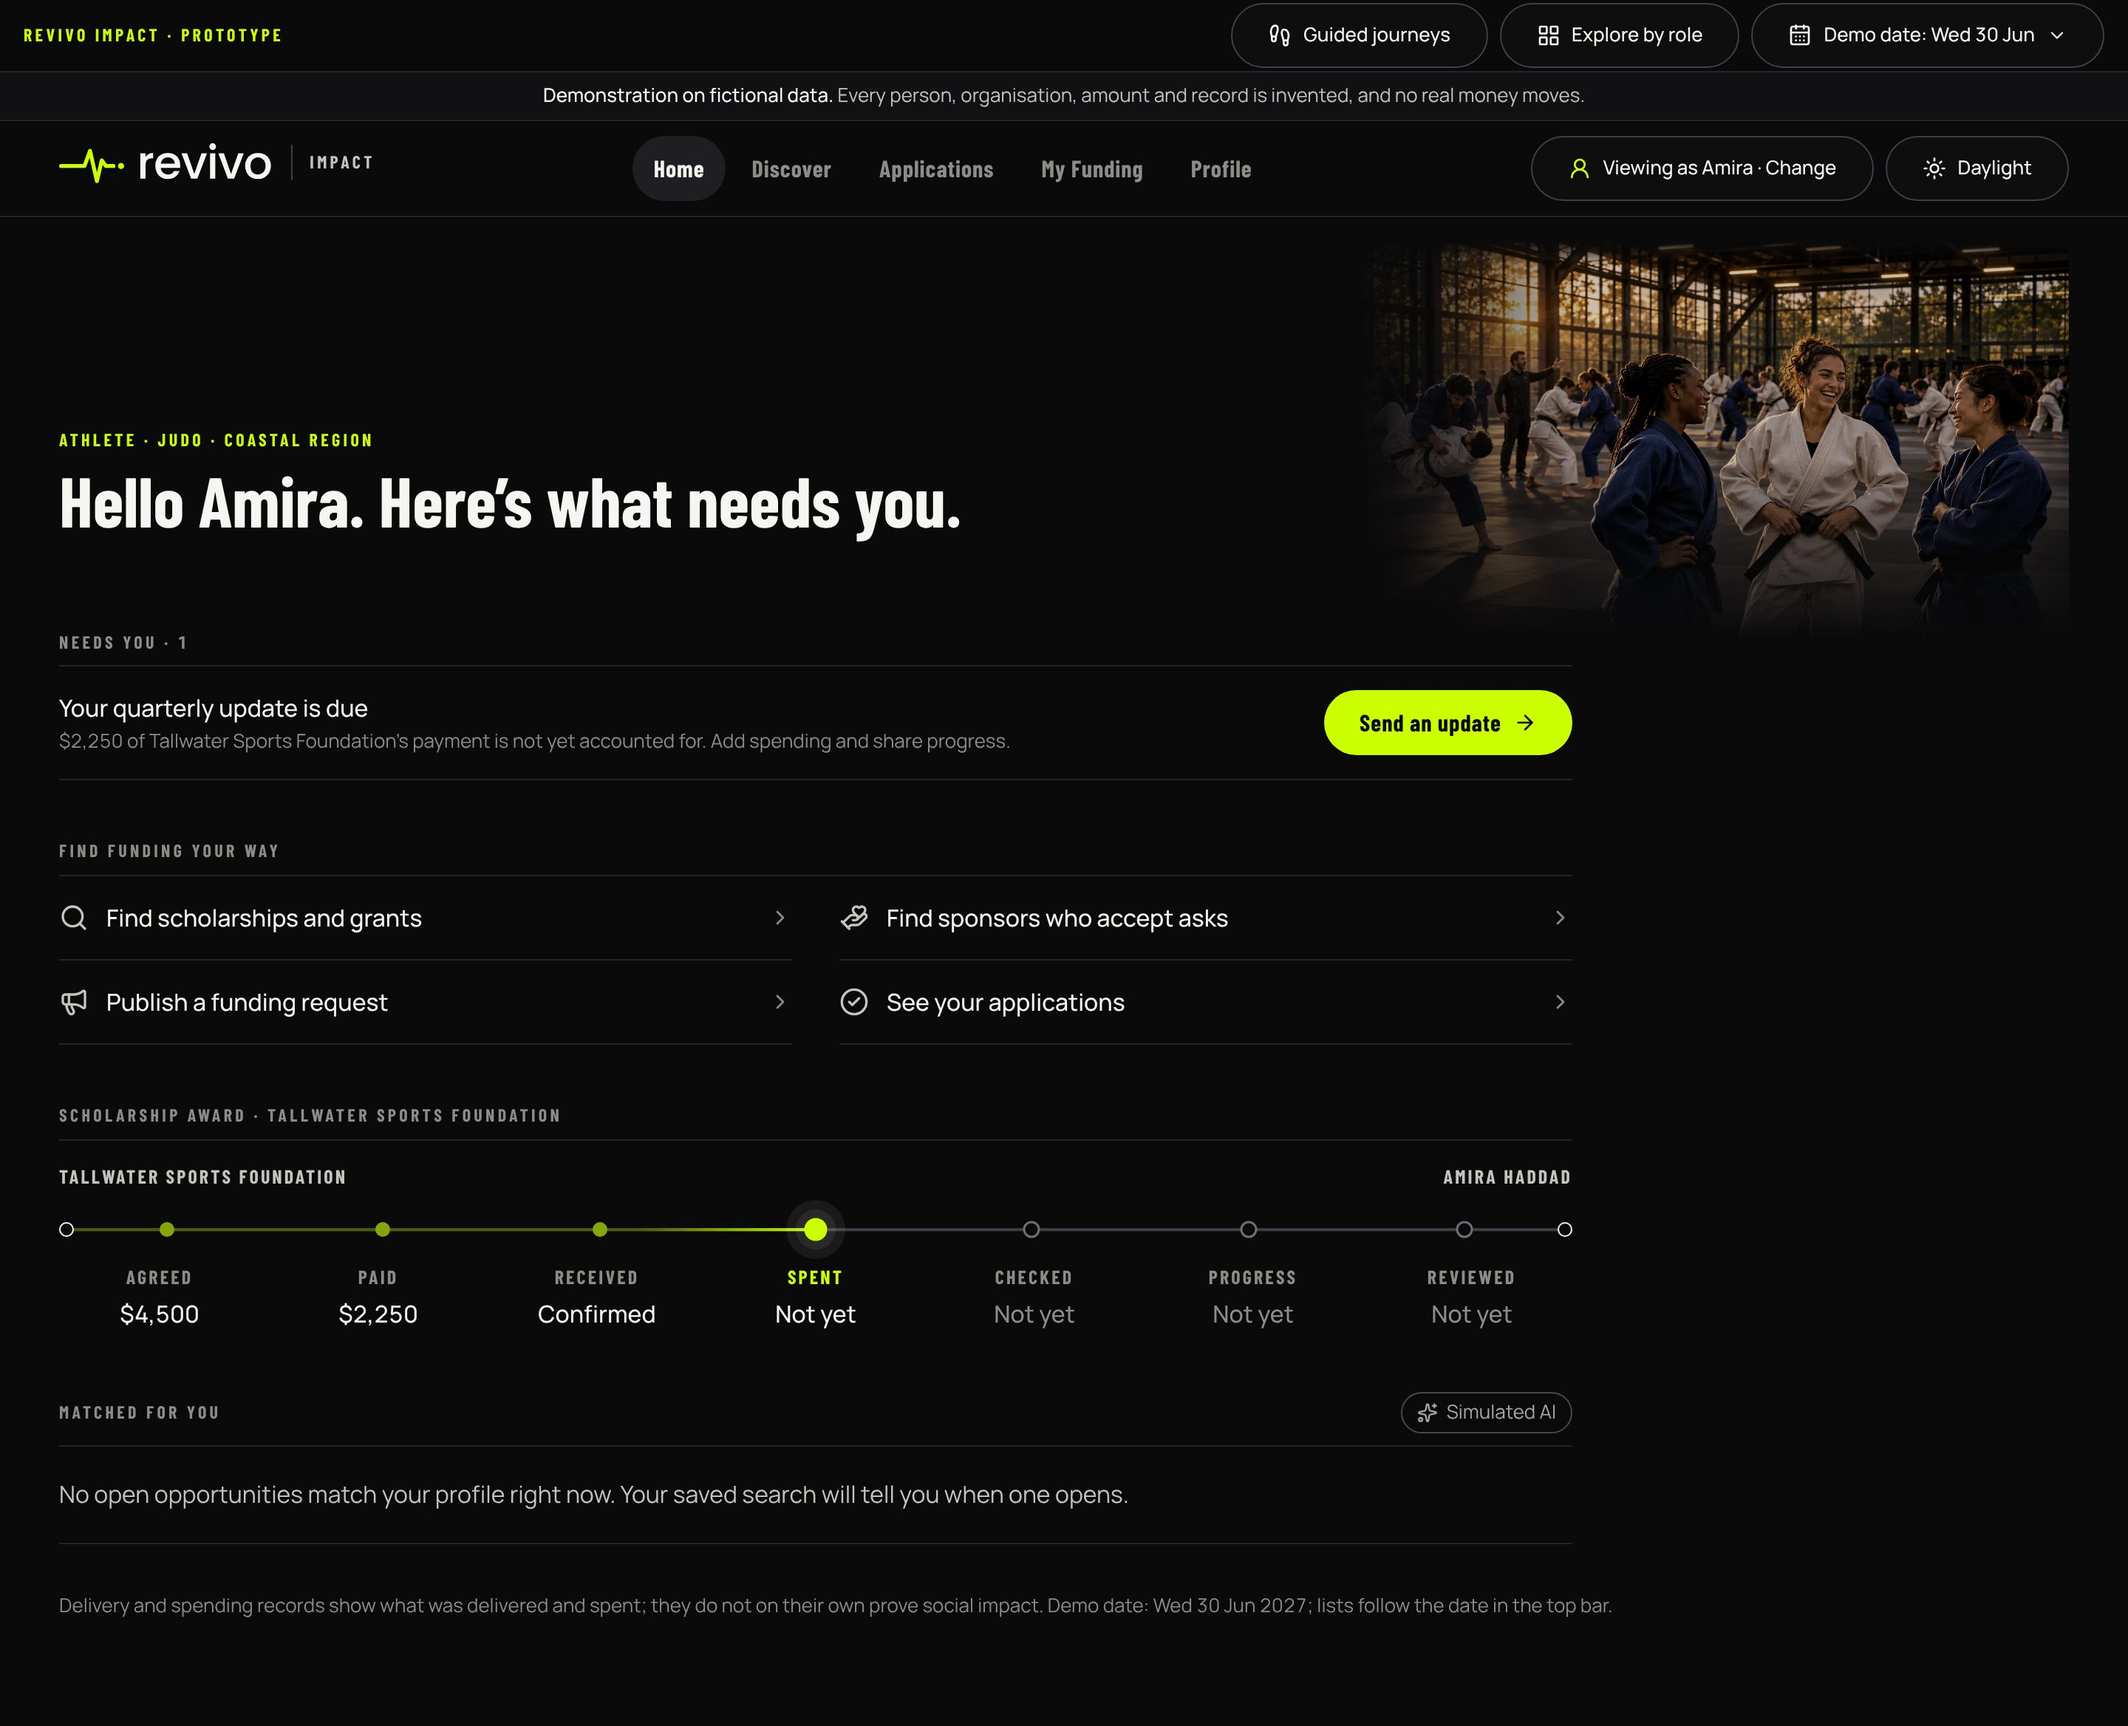
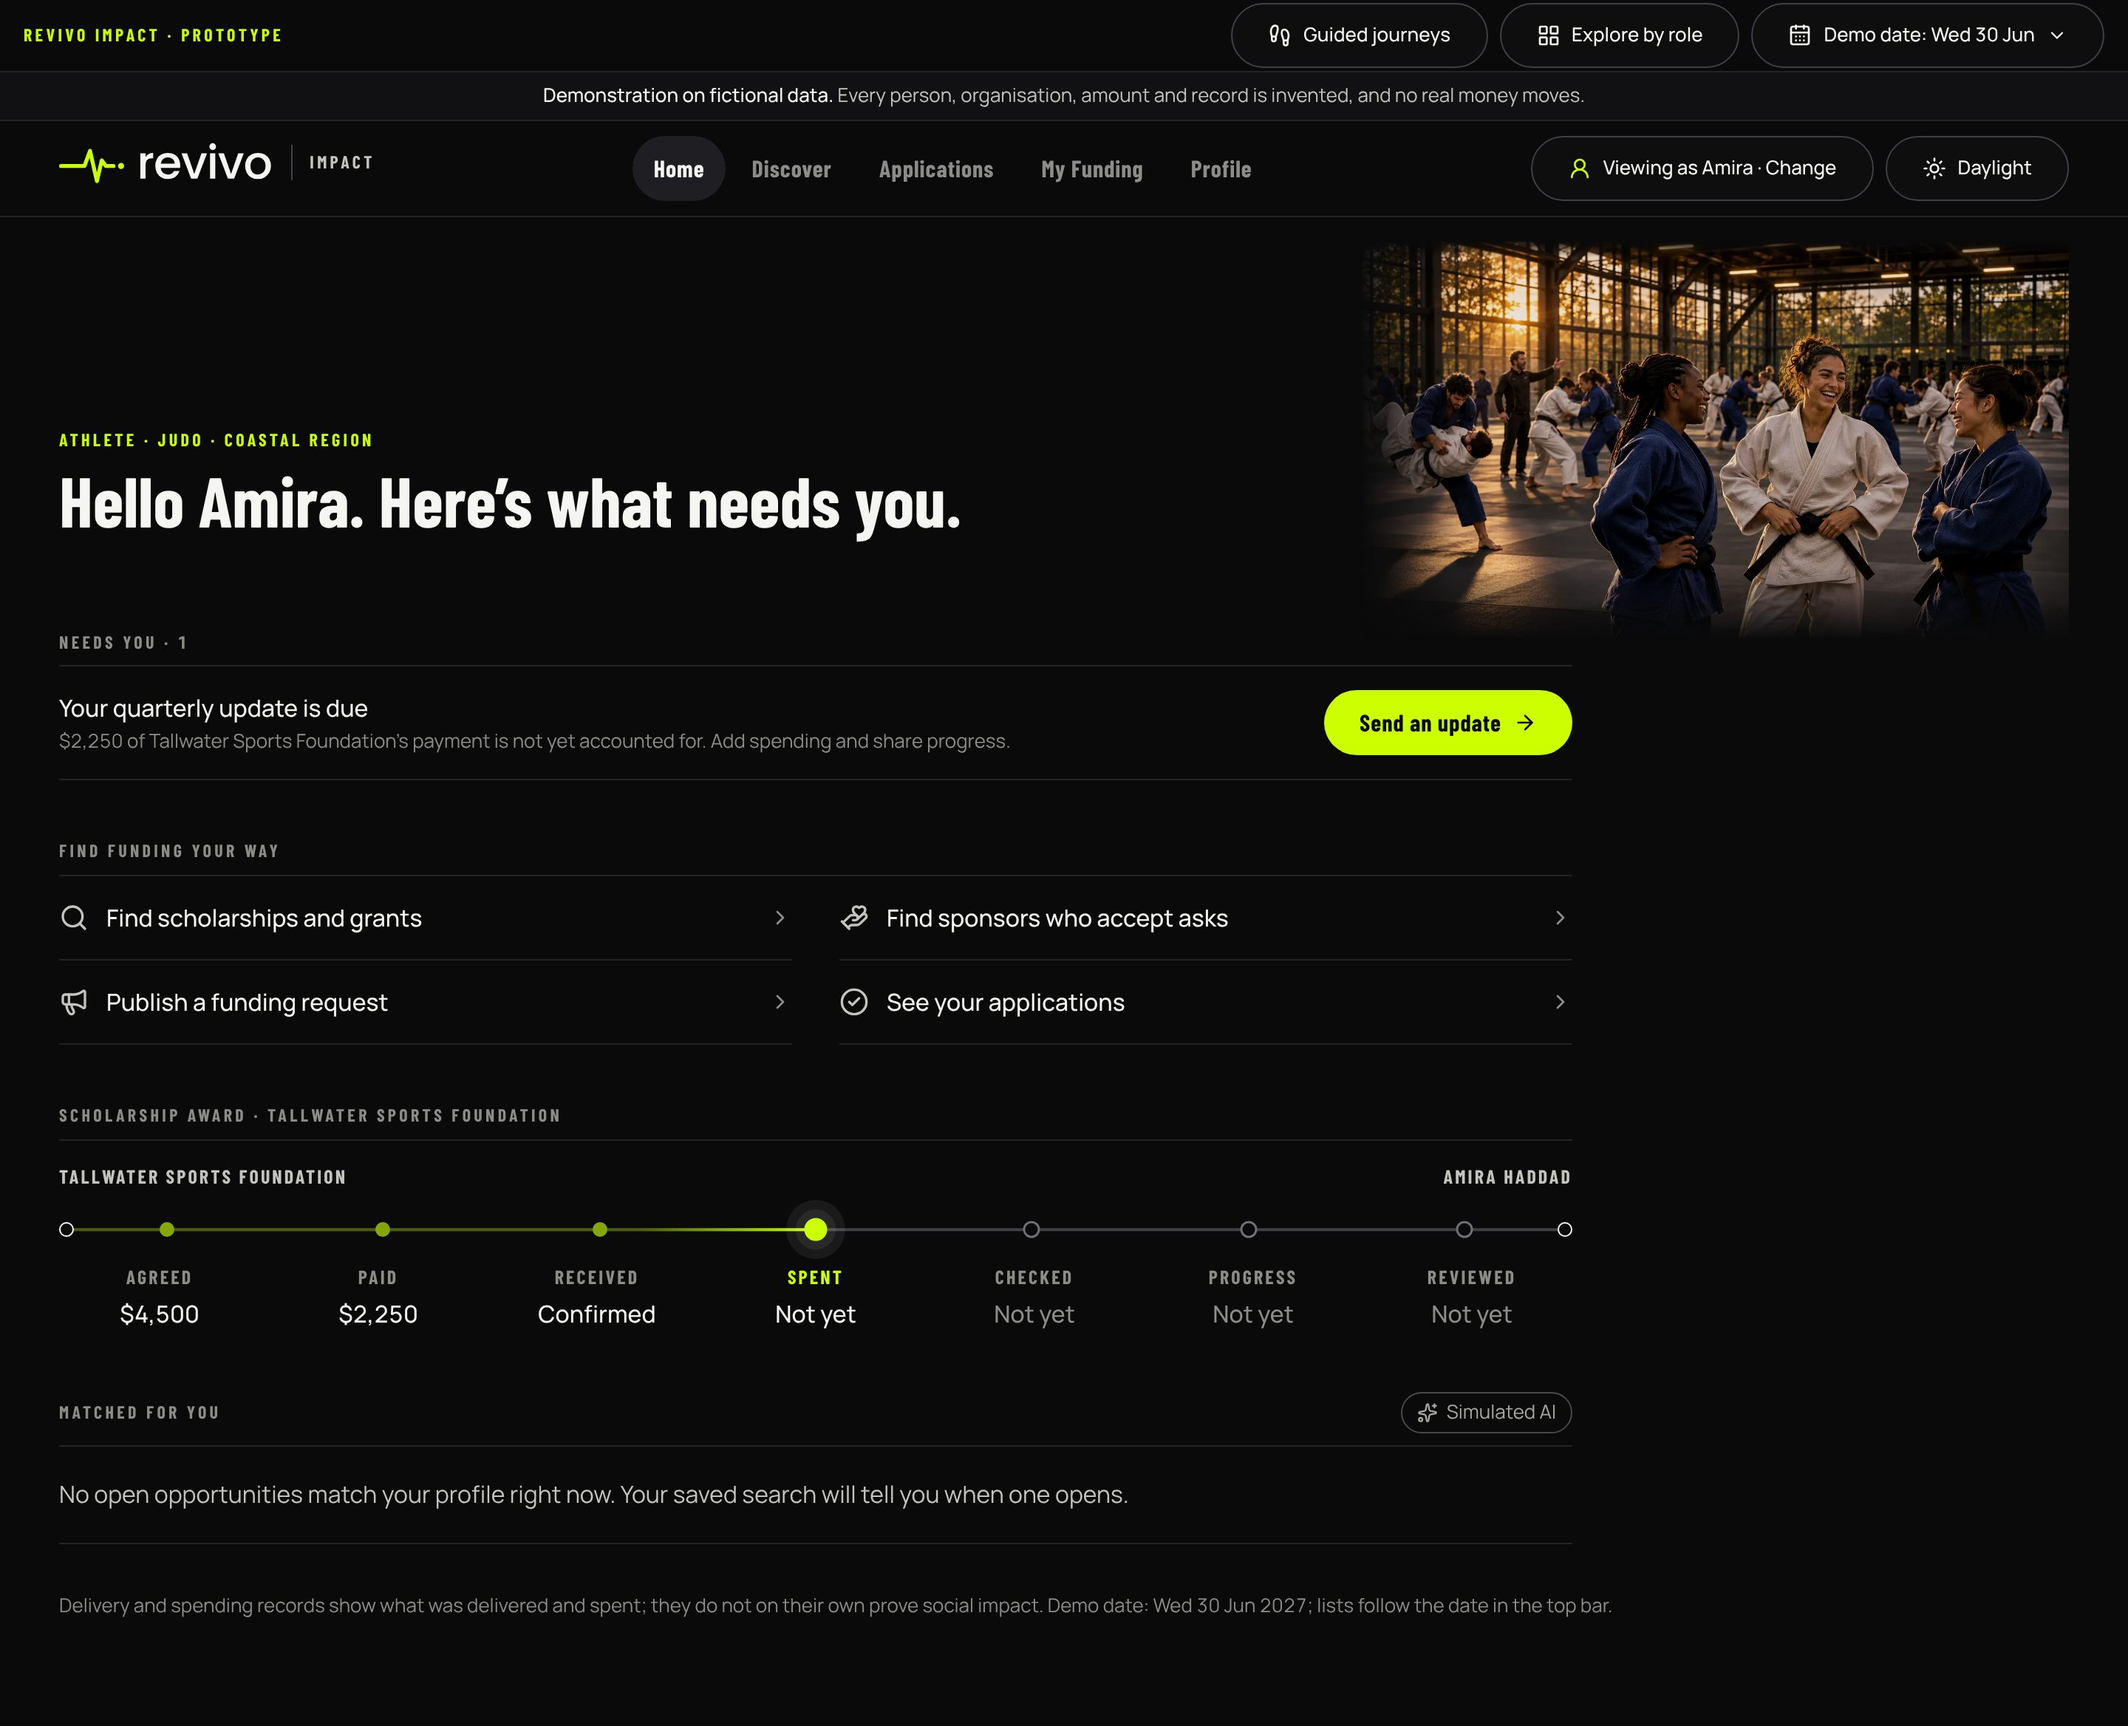
Founder direction: brighter, fuller-colour photos and header photos on phones
- Photos use the shared grade only (solved tones kept for reference).
- Hero bands use the website's lighter .hero-photo-frame fade.
- HeroBand now shows its photo on phones (before the title, or after it on Home).

Claude-Session: https://claude.ai/code/session_012R97pLmzdQs7R7iLV9SVbH

Changed region(s): [[0.6562, 0.125, 0.9375, 0.375], [0.9375, 0.3125, 0.9688, 0.3438]]

diff --git a/src/content/images.ts b/src/content/images.ts
@@ -6,6 +6,8 @@
  * `tone` evens each photo out to the Revivo website and Pathway set after the shared grade (--photo-grade), solved
  * with tools/tone/solve.py (copied from Revivo Pathway): 75th-percentile luminance ~76/255, mean saturation ~42%.
  * `w` and `h` are the file's own size: every frame takes the photo's own shape, so nothing is ever cropped.
+ * Founder direction (25 Nov 2026): the solved tones made his photos too dim and too grey ("I can't see the images
+ * clearly"), so Impact shows them with the shared grade only. The solved values stay beside each entry for reference.
  * All photographs are generated and illustrative, never real participants.
  */
 import im01 from "../assets/photos/im-01-landing.webp";
@@ -20,19 +22,19 @@ export type Photo = { src: string; w: number; h: number; tone: string; note: str
 export const PHOTOS: Record<string, Photo> = {
   // Founder's photo "golden-hour team huddle" (25 Nov 2026). Trimmed 8px at each edge (rounded corners from the
   // export) and a shoe logo removed; otherwise as supplied.
-  "im-01-landing.png": { src: im01, w: 1656, h: 925, tone: "saturate(0.79) brightness(0.77)", note: "Coach talking with a team on a stadium track at sunset" },
+  "im-01-landing.png": { src: im01, w: 1656, h: 925, tone: "" /* solved: saturate(0.79) brightness(0.77) */, note: "Coach talking with a team on a stadium track at sunset" },
   // Founder's photo "sunset stadium running team" (25 Nov 2026). Trimmed 8px at each edge (rounded corners).
-  "im-02-landing-phone.png": { src: im02, w: 965, h: 1586, tone: "saturate(0.7) brightness(0.87)", note: "A team running together on a stadium track at sunset" },
+  "im-02-landing-phone.png": { src: im02, w: 965, h: 1586, tone: "" /* solved: saturate(0.7) brightness(0.87) */, note: "A team running together on a stadium track at sunset" },
   // Founder's photo "sunset judo hall" (25 Nov 2026), as supplied.
-  "im-03-athlete-home.png": { src: im03, w: 1672, h: 941, tone: "saturate(0.89) brightness(0.87)", note: "Judoka training in a sunlit hall" },
+  "im-03-athlete-home.png": { src: im03, w: 1672, h: 941, tone: "" /* solved: saturate(0.89) brightness(0.87) */, note: "Judoka training in a sunlit hall" },
   // Founder's photo "sunset sports complex" (25 Nov 2026): badminton, table tennis, boxing and cycling in one place.
   // Trimmed 8px at each edge (rounded corners). Its wall banners carry the Revivo pulse (the founder's own mark).
-  "im-05-discover-opportunities.png": { src: im05, w: 1654, h: 926, tone: "saturate(0.79) brightness(0.75)", note: "Many sports in one sunlit community sports centre" },
+  "im-05-discover-opportunities.png": { src: im05, w: 1654, h: 926, tone: "" /* solved: saturate(0.79) brightness(0.75) */, note: "Many sports in one sunlit community sports centre" },
   // Founder's photo "sunset strategy training field" (25 Nov 2026): funders, staff and coaches on a balcony watching a
   // football session; the players are distant and not identifiable. As supplied. Brightness at the solver's floor
   // (0.75), so it sits slightly brighter than the set (p75 ~87): the sun and sky are in frame.
-  "im-06-funder-visit.png": { src: im06, w: 1670, h: 942, tone: "saturate(0.7) brightness(0.75)", note: "Funders and coaches watch a football session from a balcony at sunset" },
+  "im-06-funder-visit.png": { src: im06, w: 1670, h: 942, tone: "" /* solved: saturate(0.7) brightness(0.75) */, note: "Funders and coaches watch a football session from a balcony at sunset" },
   // Founder's photo "sunset poolside coaching huddle" (25 Nov 2026): adult swimmers only, so it suits the swimming
   // travel grant; never used on screens about young athletes. Trimmed 8px at each edge (rounded corners).
-  "im-11-competition-travel.png": { src: im11, w: 1654, h: 925, tone: "saturate(0.7) brightness(0.84)", note: "A coach talking with adult swimmers by the pool at sunset" },
+  "im-11-competition-travel.png": { src: im11, w: 1654, h: 925, tone: "" /* solved: saturate(0.7) brightness(0.84) */, note: "A coach talking with adult swimmers by the pool at sunset" },
 };

diff --git a/src/brand/tokens.css b/src/brand/tokens.css
@@ -178,11 +178,11 @@
 .photo-frame {
   -webkit-mask-image:
     linear-gradient(to right, transparent 0%, #000 6%, #000 94%, transparent 100%),
-    linear-gradient(to bottom, transparent 0%, #000 8%, #000 70%, transparent 100%);
+    linear-gradient(to bottom, transparent 0%, #000 6%, #000 82%, transparent 100%);
   -webkit-mask-composite: source-in;
   mask-image:
     linear-gradient(to right, transparent 0%, #000 6%, #000 94%, transparent 100%),
-    linear-gradient(to bottom, transparent 0%, #000 8%, #000 70%, transparent 100%);
+    linear-gradient(to bottom, transparent 0%, #000 6%, #000 82%, transparent 100%);
   mask-composite: intersect;
 }
 
@@ -272,20 +272,21 @@
 
 /* Hero band: the photo shown whole on the right, fading into the canvas on its left and lower edges so the page
    title can sit over the fade (website .hero-photo-frame / .hero-band pattern). */
+/* Same fade as the website's .hero-photo-frame (left 14%, top 4%, bottom from 82%), so more of the photo stays clear. */
 .hero-fade {
-  -webkit-mask-image: linear-gradient(to right, transparent 0%, #000 32%), linear-gradient(to bottom, transparent 0%, #000 6%, #000 55%, transparent 100%);
+  -webkit-mask-image: linear-gradient(to right, transparent 0%, #000 14%), linear-gradient(to bottom, transparent 0%, #000 4%, #000 82%, transparent 100%);
   -webkit-mask-composite: source-in;
-  mask-image: linear-gradient(to right, transparent 0%, #000 32%), linear-gradient(to bottom, transparent 0%, #000 6%, #000 55%, transparent 100%);
+  mask-image: linear-gradient(to right, transparent 0%, #000 14%), linear-gradient(to bottom, transparent 0%, #000 4%, #000 82%, transparent 100%);
   mask-composite: intersect;
 }
 .hero-fade-phone {
   -webkit-mask-image:
-    linear-gradient(to right, transparent 0%, #000 8%, #000 92%, transparent 100%),
-    linear-gradient(to bottom, transparent 0%, #000 6%, #000 55%, transparent 100%);
+    linear-gradient(to right, transparent 0%, #000 5%, #000 95%, transparent 100%),
+    linear-gradient(to bottom, transparent 0%, #000 4%, #000 80%, transparent 100%);
   -webkit-mask-composite: source-in;
   mask-image:
-    linear-gradient(to right, transparent 0%, #000 8%, #000 92%, transparent 100%),
-    linear-gradient(to bottom, transparent 0%, #000 6%, #000 55%, transparent 100%);
+    linear-gradient(to right, transparent 0%, #000 5%, #000 95%, transparent 100%),
+    linear-gradient(to bottom, transparent 0%, #000 4%, #000 80%, transparent 100%);
   mask-composite: intersect;
 }
 

diff --git a/src/components/ui.tsx b/src/components/ui.tsx
@@ -230,7 +230,7 @@ export function ImageSlot({
           height={photo.h}
           decoding="async"
           className="photo absolute inset-0 h-full w-full object-contain"
-          style={{ "--tone": photo.tone } as CSSProperties}
+          style={photo.tone ? ({ "--tone": photo.tone } as CSSProperties) : undefined}
         />
       </figure>
     );
@@ -265,12 +265,14 @@ export function HeroBand({
   file: string;
   children: ReactNode;
   caption?: string;
-  /** Phones: the image after the content (default on working screens) or not at all. */
+  /** Phones: the image above the title (default), after it (Home screens, so "what needs you" stays near the top), or not at all. */
   phone?: "before" | "after" | "none";
 }) {
-  void phone;
+  // Phones: the photo whole, full width, above the title ("before") or just after it ("after").
+  const phoneImage = phone !== "none" && <ImageSlot file={file} caption={caption} className="hero-fade-phone mt-4 w-full md:hidden" />;
   return (
     <div className="relative">
+      {phone === "before" && phoneImage}
       {/* A short band: the photo sits to the right of the title, shown whole, fading into the canvas. */}
       <div className="hidden md:absolute md:top-4 md:right-0 md:block md:w-[min(40%,30rem)]">
         <ImageSlot file={file} caption={caption} className="hero-fade w-full rounded-none" />
@@ -278,6 +280,7 @@ export function HeroBand({
       <div className="relative md:flex md:min-h-[min(calc((100vw-5rem)*0.225),15rem)] md:items-end">
         <div className="relative z-10 pt-6 pb-6 md:w-[58%] md:pt-8 md:pb-6">{children}</div>
       </div>
+      {phone === "after" && phoneImage}
     </div>
   );
 }

diff --git a/docs/10-image-asset-plan.md b/docs/10-image-asset-plan.md
@@ -21,6 +21,13 @@ sunset rather than morning daylight). Later images should follow the same look; 
 | im-06-funder-visit (funder Overview band; public profiles of foundations, companies and federations) | Sunset strategy training field: funders, staff and coaches on a balcony watching a football session | none | saturate(0.7) brightness(0.75) |
 | im-11-competition-travel (Competition Travel Grant and Athlete Travel Bursary headers) | Sunset poolside coaching huddle: adult swimmers and their coach (close faces, so never used for young athletes such as Tiago) | 8 px trimmed at each edge (rounded corners) | saturate(0.7) brightness(0.84) |
 
+**Founder direction, 25 Nov 2026 (after seeing the first screenshots):** the solved tones made the photos too dim and
+too grey, and phones showed no header photos. Revivo Impact now shows the founder's photos with the shared grade only
+(no per-photo tone; the solved values are kept in `src/content/images.ts` for reference), hero bands use the
+website's lighter `.hero-photo-frame` fade, and every header photo also shows on phones (above the title on
+opportunity and Discover pages, just after the greeting on Home screens). This supersedes the p75/saturation target in
+`04` §9 for Impact.
+
 Pipeline: masters in `assets/photography/source/`, WebP (quality 78) in `src/assets/photos/`, tone solved with
 `tools/tone/solve.py` (copied from Pathway) to p75 ≈ 76/255 and saturation ≈ 42%, the same targets as the website and
 Pathway. Frames fade at every edge (Pathway `.fade-band`); hero bands fade left, top and bottom. The other 10 slots
